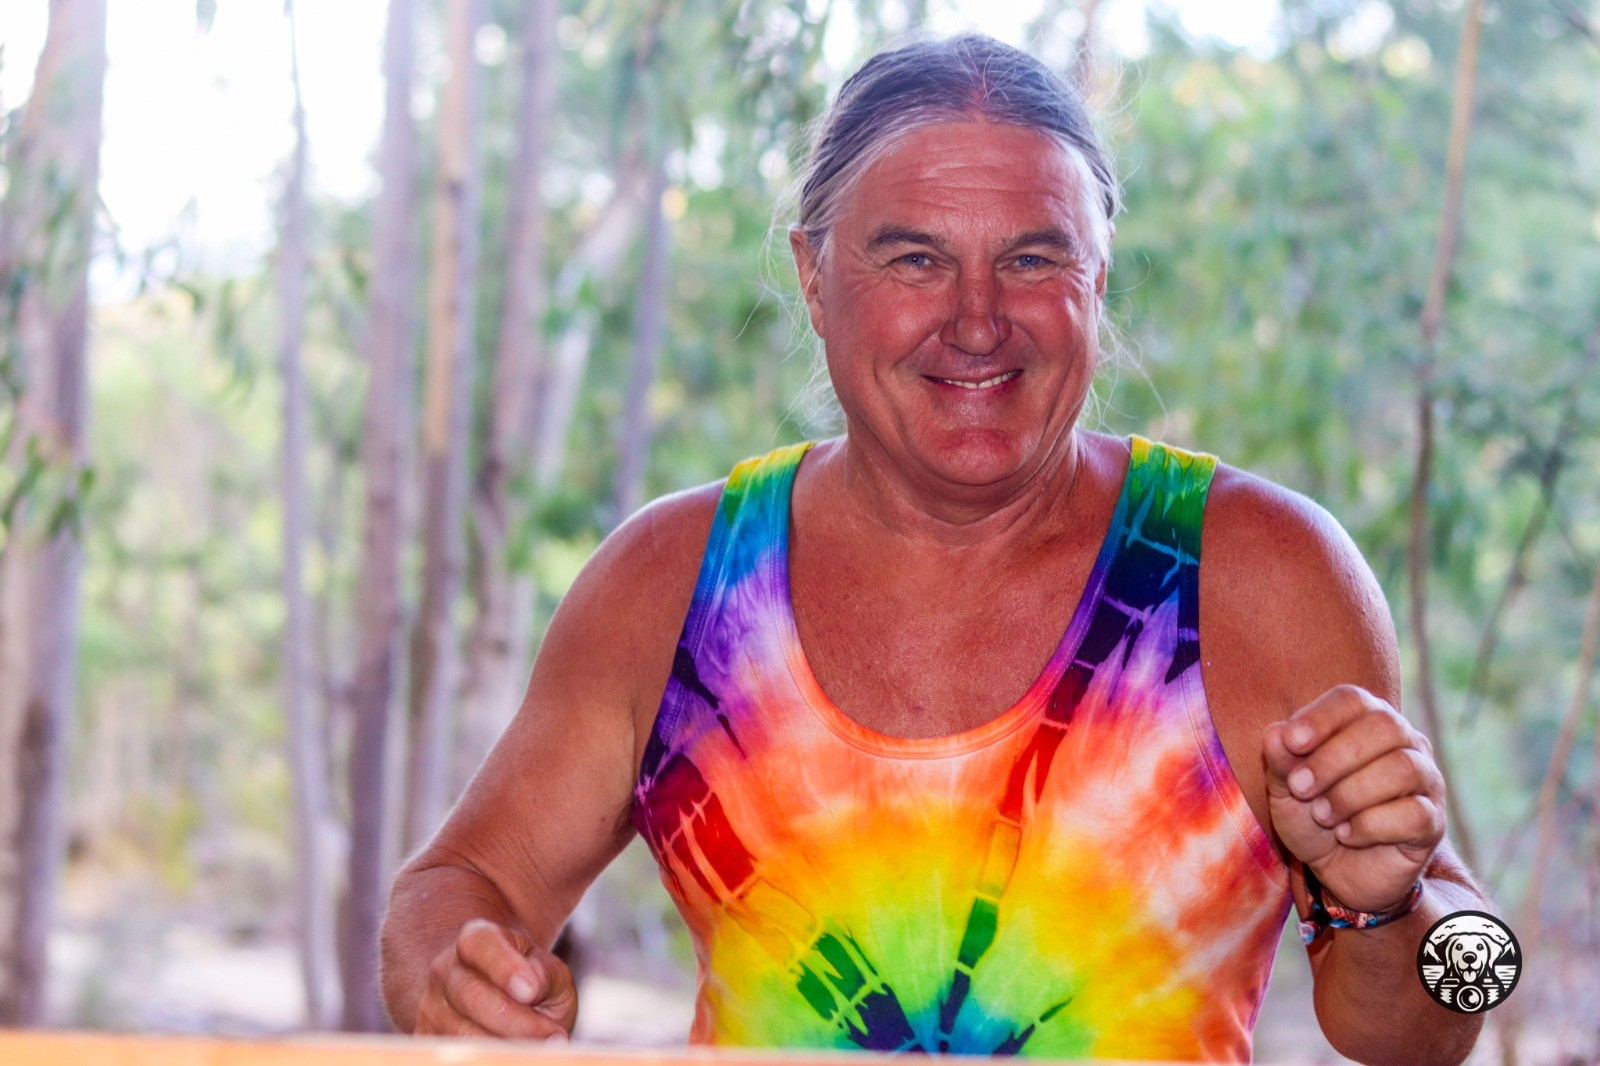
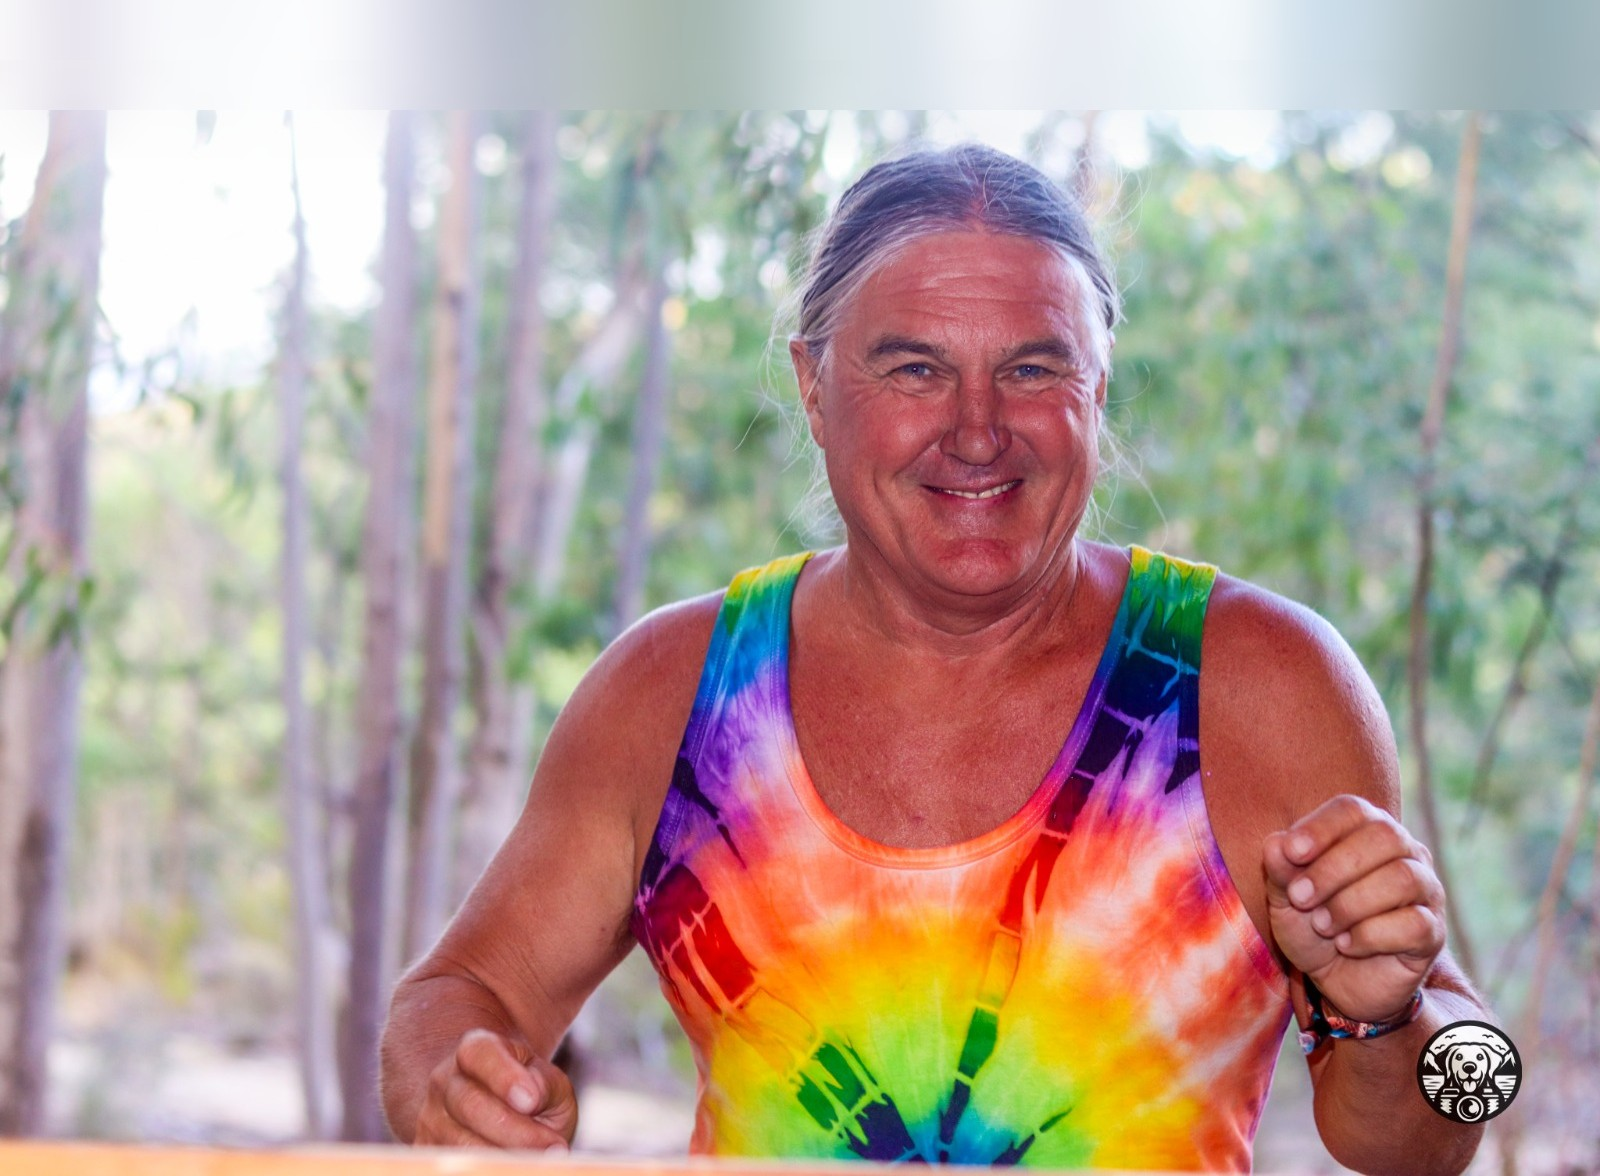
Fix DJ Craig A portrait: bake headroom into the image itself
The previous fix used a CSS scale-down to reveal more headroom,
but that just exposed the dark matte background behind the photo
instead of real content. Extending the source photo's canvas with
a blended backdrop gives real headroom without any visible gap.

diff --git a/stages/sonic-horizon/index.html b/stages/sonic-horizon/index.html
@@ -258,7 +258,7 @@ alt=""></noscript>
           <strong>Psyrenex</strong>
         </a>
         <a class="lineup-profile" href="artists/dj-craig-a/">
-          <span class="lineup-profile-medallion" style="--artist-image-position:50% 50%;--artist-image-scale:0.93;--artist-image-translate-x:0%;--artist-image-translate-y:4%;--artist-image-background:#0d0a24">
+          <span class="lineup-profile-medallion" style="--artist-image-position:50% 50%;--artist-image-scale:1;--artist-image-translate-x:0%;--artist-image-translate-y:0%;--artist-image-background:#0d0a24">
             <span class="lineup-profile-crop"><img src="assets/artists/images/dj-craig-a.jpg" alt="" loading="lazy" decoding="async"></span>
             <img class="lineup-profile-frame" src="assets/artists/flower-frame-small.png" alt="" aria-hidden="true" loading="lazy" decoding="async">
           </span>

diff --git a/lineup.html b/lineup.html
@@ -397,7 +397,7 @@ alt=""></noscript>
           <strong>Psyborg</strong>
         </a>
         <a class="lineup-profile" href="artists/dj-craig-a/">
-          <span class="lineup-profile-medallion" style="--artist-image-position:50% 50%;--artist-image-scale:0.93;--artist-image-translate-x:0%;--artist-image-translate-y:4%;--artist-image-background:#0d0a24">
+          <span class="lineup-profile-medallion" style="--artist-image-position:50% 50%;--artist-image-scale:1;--artist-image-translate-x:0%;--artist-image-translate-y:0%;--artist-image-background:#0d0a24">
             <span class="lineup-profile-crop"><img src="assets/artists/images/dj-craig-a.jpg" alt="" loading="lazy" decoding="async"></span>
             <img class="lineup-profile-frame" src="assets/artists/flower-frame-small.png" alt="" aria-hidden="true" loading="lazy" decoding="async">
           </span>

diff --git a/artists/dj-craig-a/index.html b/artists/dj-craig-a/index.html
@@ -131,7 +131,7 @@ alt=""></noscript>
             <a class="artist-back-link" href="lineup.html#announced-artists">Back to the lineup</a>
           </div>
         </div>
-        <figure class="artist-portrait" style="--artist-image-position:50% 50%;--artist-image-scale:0.93;--artist-image-translate-x:0%;--artist-image-translate-y:4%;--artist-image-background:#0d0a24">
+        <figure class="artist-portrait" style="--artist-image-position:50% 50%;--artist-image-scale:1;--artist-image-translate-x:0%;--artist-image-translate-y:0%;--artist-image-background:#0d0a24">
           <div class="artist-portrait-crop">
             <img src="assets/artists/images/dj-craig-a.jpg" alt="Portrait of DJ Craig A">
           </div>
